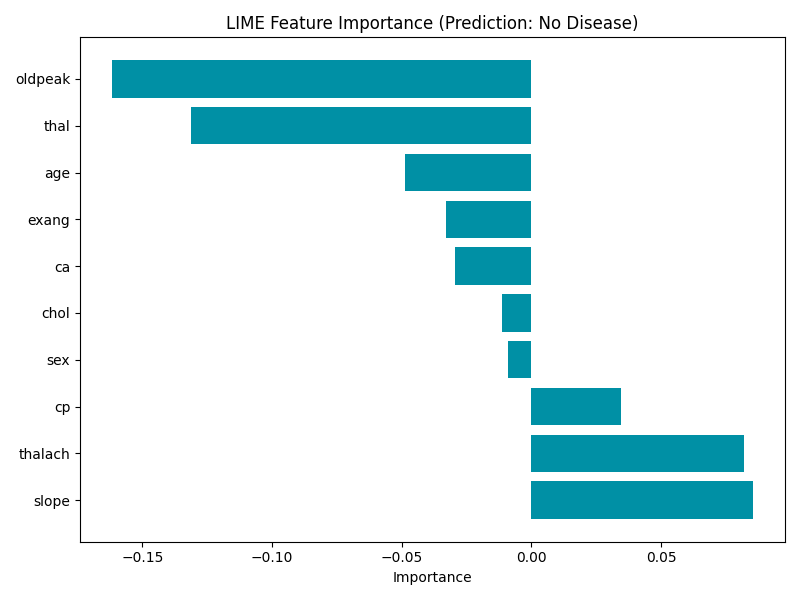
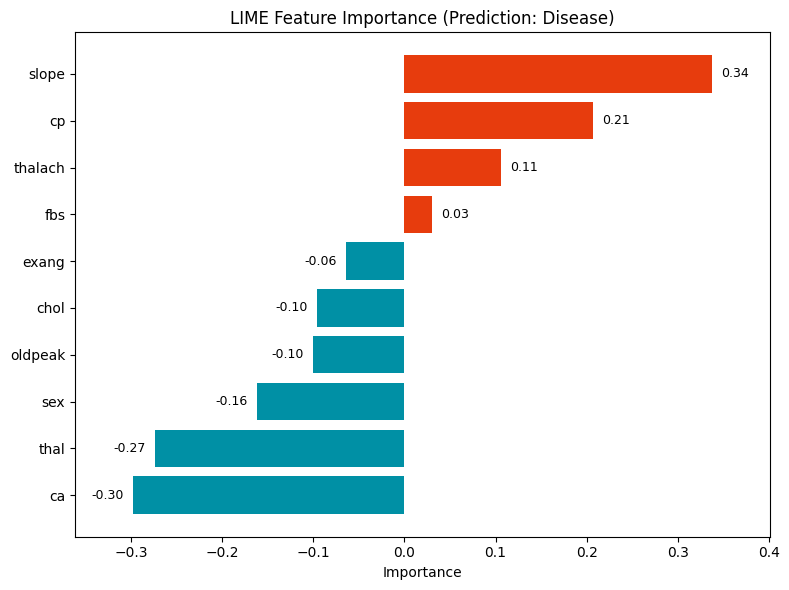
Updated lime plot

Changed region(s): [[0.0, 0.0, 1.0, 0.9763]]

diff --git a/templates/dashboard.html b/templates/dashboard.html
@@ -3,18 +3,28 @@
 {% block content %}
     <div class="container py-5">
         <h2 class="text-center mb-4">Dashboard</h2>
-
-        {% if lime_image_path or prediction_values %}
-            <div class="text-center mb-4">
+        <div class="card mb-4">
+            {% if lime_image_path or prediction_values %}  
                 {% if lime_image_path %}
-                    <!-- Make sure that the lime_image_path only contains the filename and not the full path -->
-                    <img src="{{ url_for('static', filename='lime_plots/' + lime_image_path.split('/')[-1]) }}" class="img-fluid" alt="LIME Plot">
+                    <div class="row g-0 d-flex align-items-center">
+                        <div class="col-md-4 d-flex align-items-center">
+                            <div class="card-body">
+                                <p class="card-text">
+                                    {{ lime_explanation }}
+                                </p>
+                            </div>
+                        </div>
+                        <div class="col-md-8">
+                            <img src="{{ url_for('static', filename='lime_plots/' + lime_image_path.split('/')[-1]) }}"
+                                 class="img-fluid" alt="LIME Plot">
+                        </div>
+                    </div>
                 {% else %}
-                    <p>No LIME plot available.</p>
-                    <p>Image Path: {{ url_for('static', filename='lime_plots/' + lime_image_path.split('/')[-1]) }}</p>
+                    <p class="m-3">No LIME plot available.</p>
                 {% endif %}
-            </div>
-
+            
+        </div>
+        
             <div>
                 <h3 class="mb-3">Prediction Input Values</h3>
                 <table class="table table-striped table-bordered">

diff --git a/templates/layout.html b/templates/layout.html
@@ -36,6 +36,11 @@
                         </li>
                         {% if 'admin' in user_roles %}
                         <li class="nav-item">
+                            <a class="nav-link" href="{{ url_for('main.manage_models') }}">
+                                <i class="fas fa-cogs"></i> Manage Models
+                            </a>
+                          </li>
+                        <li class="nav-item">
                           <a class="nav-link" href="{{ url_for('main.admin') }}">
                             <i class="fas fa-user-tie"></i> Admin
                           </a>

diff --git a/templates/manage_models.html b/templates/manage_models.html
@@ -1,0 +1,24 @@
+{% extends "layout.html" %}
+
+{% block content %}
+<h2 class="text-center mb-4">Manage Models</h2>
+
+<table class="table table-striped table-bordered">
+    <thead class="thead-dark">
+        <tr>
+            <th>Parameter</th>
+            <th>Value</th>
+        </tr>
+    </thead>
+    <tbody>
+        {% for key, value in prediction_values.items() %}
+            <tr>
+                <td>{{ key|replace('_', ' ')|title }}</td>
+                <td>{{ value }}</td>
+            </tr>
+        {% endfor %}
+    </tbody>
+</table>
+
+
+{% endblock %}

diff --git a/helpers/input_params_helper.py b/helpers/input_params_helper.py
@@ -81,28 +81,87 @@ def process_shap_values(shap_values, features):
 
 def process_lime_values(lime_values, prediction, feature_names):
     """Processes the LIME values received after making a prediction and plots them. Plots used for dashboard."""
-    # Convert the LIME values dictionary into a DataFrame
+    # Convert the LIME values dictionary to a DataFrame
     lime_df = pd.DataFrame(list(lime_values.items()), columns=['Feature', 'Importance'])
     
-    # Sort by importance for better visualization
+    # Sort so highest importance is at the top
     lime_df = lime_df.sort_values(by='Importance', ascending=False)
 
-    # Create a bar plot for the LIME values
-    fig, ax = plt.subplots(figsize=(8, 6))
-    ax.barh(lime_df['Feature'], lime_df['Importance'], color='#0090A5')
+    # Assign colors based on sign of importance
+    def pick_color(value):
+        return '#E73C0D' if value > 0 else '#0090A5'
 
-    # Add labels and title
+    lime_df['Color'] = lime_df['Importance'].apply(pick_color)
+
+    # Create a horizontal bar plot
+    fig, ax = plt.subplots(figsize=(8, 6))
+    bars = ax.barh(lime_df['Feature'], lime_df['Importance'], color=lime_df['Color'])
+    ax.invert_yaxis()  # So largest bar is on top
+
+    # Add annotations at the end of each bar
+    for bar in bars:
+        width = bar.get_width()
+        yloc = bar.get_y() + bar.get_height() / 2
+        if width > 0:
+            xloc = width + 0.01
+            ha = 'left'
+        else:
+            xloc = width - 0.01
+            ha = 'right'
+        ax.text(xloc, yloc, f'{width:.2f}', va='center', ha=ha, fontsize=9)
+
+    # Add a little horizontal margin so text isn't cut off
+    max_val = lime_df['Importance'].max()
+    min_val = lime_df['Importance'].min()
+    margin = 0.1 * (max_val - min_val)  # 10% margin
+    ax.set_xlim(min_val - margin, max_val + margin)
+
+    # Labels and title
     prediction_label = "Disease" if prediction == 1 else "No Disease"
     ax.set_xlabel('Importance')
     ax.set_title(f'LIME Feature Importance (Prediction: {prediction_label})')
 
-    # Save the figure as a static image
+    plt.tight_layout()
+
+    # Save the plot
     lime_image_filename = "lime_plot.png"
     lime_image_path = os.path.join("static", "lime_plots", lime_image_filename)
-    
-    # Save the plot to the desired path
-    plt.tight_layout()
-    fig.savefig(lime_image_path)
+    plt.savefig(lime_image_path, bbox_inches="tight")
     plt.close(fig)
 
-    return lime_image_path
+    text = generate_lime_text(lime_values, prediction, feature_names)
+
+    return lime_image_path, text
+
+
+def generate_lime_text(lime_values, prediction, feature_names):
+     # Convert to DataFrame
+    df = pd.DataFrame(list(lime_values.items()), columns=['Feature', 'Importance'])
+    
+    # Separate positive and negative
+    pos_df = df[df['Importance'] > 0].sort_values(by='Importance', ascending=False)
+    neg_df = df[df['Importance'] < 0].sort_values(by='Importance', ascending=True)
+    
+    # Pick top 2 from each group, if they exist
+    top_pos = pos_df.head(2)
+    top_neg = neg_df.head(2)
+    
+    # Build a short sentence
+    prediction_label = "Disease" if prediction == 1 else "No Disease"
+    explanation_text = (f"This LIME plot shows how each feature contributed to the model's final decision of '{prediction_label}'. "
+                        "Positive bars indicate features pushing the prediction toward 'Disease', while negative bars indicate features pushing it away.\n")
+    
+    # Add top positive features
+    if not top_pos.empty:
+        explanation_text += "The top positive contributors here are: "
+        explanation_text += ", ".join([f"{row['Feature']} ({row['Importance']:.2f})" for _, row in top_pos.iterrows()])
+        explanation_text += ".\n"
+    
+    # Add top negative features
+    if not top_neg.empty:
+        explanation_text += "Meanwhile, the top negative contributors are: "
+        explanation_text += ", ".join([f"{row['Feature']} ({row['Importance']:.2f})" for _, row in top_neg.iterrows()])
+        explanation_text += ".\n"
+    
+    explanation_text += "For more details, see the bar lengths and colors in the chart to the right."
+    return explanation_text

diff --git a/routes.py b/routes.py
@@ -100,6 +100,7 @@ def input_params():
         models_response = requests.get("http://127.0.0.1:5001/models")
         if models_response.status_code == 200:
             models = models_response.json()
+            session['models'] = models
         else:
             models = []
             flash("Unable to fetch models.", "warning")
@@ -124,13 +125,13 @@ def input_params():
                 session['prediction'] = prediction
 
                 # Process LIME values
-                lime_image_path = process_lime_values(
+                lime_image_path, text = process_lime_values(
                     lime_values=data.get("lime_values"),
                     prediction=prediction,
                     feature_names=features
                 )
                 session['lime_image_path'] = lime_image_path
-                print("LIME image path:", session['lime_image_path'])
+                session['lime_explanation'] = text
             else:
                 prediction = "Error: Unable to get prediction."
                 flash("Prediction API error.", "danger")
@@ -155,11 +156,13 @@ def dashboard():
     """Serves LIME plot and parameters used to make predictions from the last prediction."""
     lime_image_path = session.get("lime_image_path", None)
     prediction_values = session.get("prediction_values", None)
+    lime_explanation = session.get("lime_explanation", None)
     return render_template(
         "dashboard.html",
         session=session.get("user"),
         lime_image_path=lime_image_path,
         prediction_values=prediction_values,
+        lime_explanation=lime_explanation,
         pretty=json.dumps(session.get("user"), indent=4),
     )
 
@@ -192,6 +195,20 @@ def models():
         feature_mapping=feature_mapping,
         plots=plots,
     )
+
+
+@main.route("/manage models")
+@login_required
+@requires_role("admin")
+def manage_models():
+    models = session.get('models')
+
+    return render_template(
+            "manage_models.html",
+            models=models,
+            session=session.get("user"),
+            pretty=json.dumps(session.get("user"), indent=4),
+        )
 
 
 @main.route("/admin")
